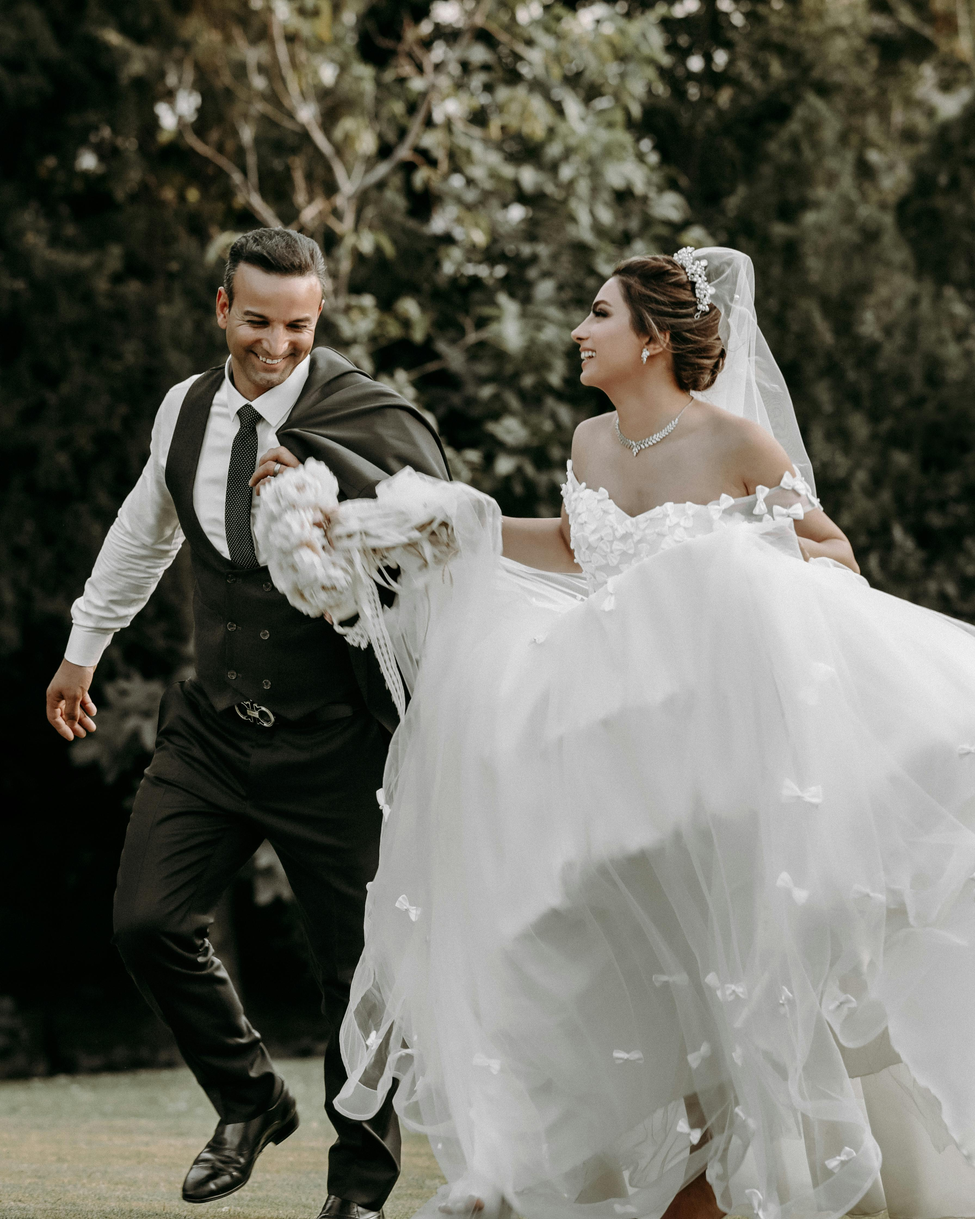
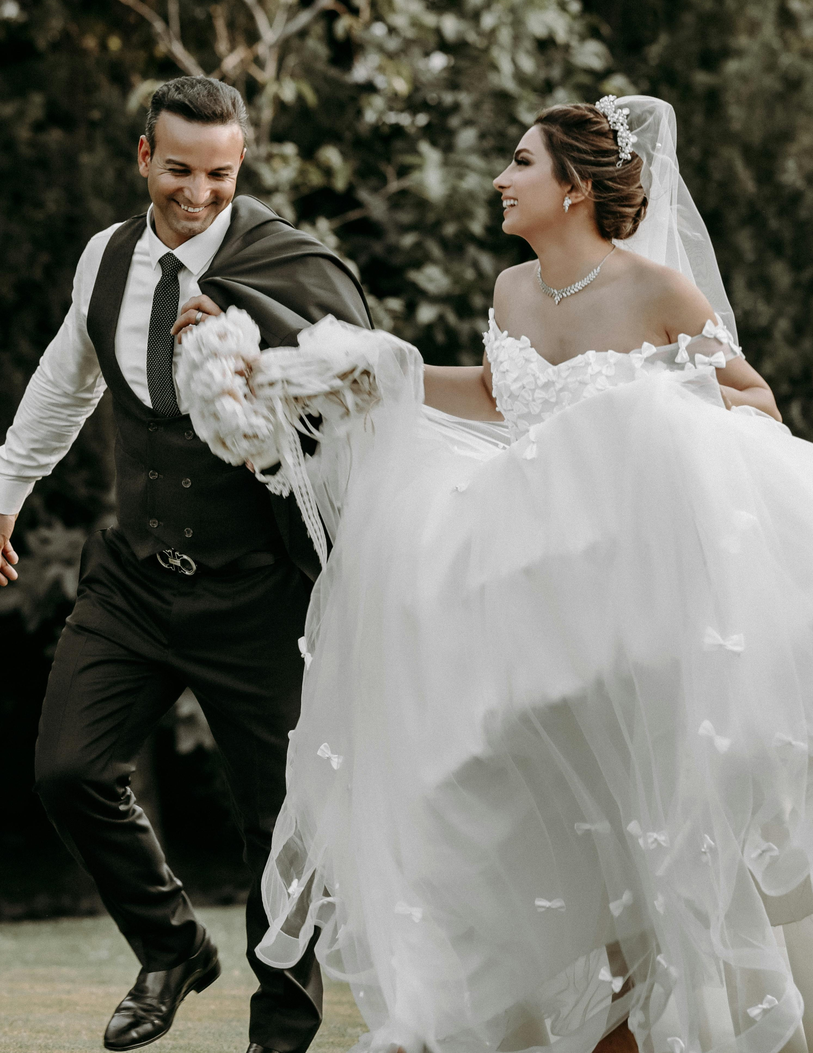
1

diff --git a/src/components/header.vue b/src/components/header.vue
@@ -7,9 +7,9 @@ const device = inject("device");
   <div>
     <div class="p-5 mb-32">
       <div
-        :class="['relative w-full h-[95vh] bg-cover bg-center text-white text-center p-5'
+        :class="['relative w-full h-[95vh] bg-cover bg-no-repeat  text-white text-center p-5'
       ,{' bg-fixed': device === 'pc'}]"
-        :style="{ backgroundImage: `url(${headerPic})` }"
+          :style="{ backgroundImage: `url(${headerPic})` }"
       >
         <div class="text-xs">2024</div>
         <div class="text-2xl font-bold">We’re getting married</div>
@@ -17,7 +17,7 @@ const device = inject("device");
           <div>Jay & Gabrielle</div>
           <div>DEC.17</div>
         </div>
-        <div class="absolute bottom-[10%] right-0 text-end text-3xl">
+        <div class="absolute bottom-[10%] right-2 text-end text-3xl">
           please join us
           <br />and
           <br />celebrate togethe
